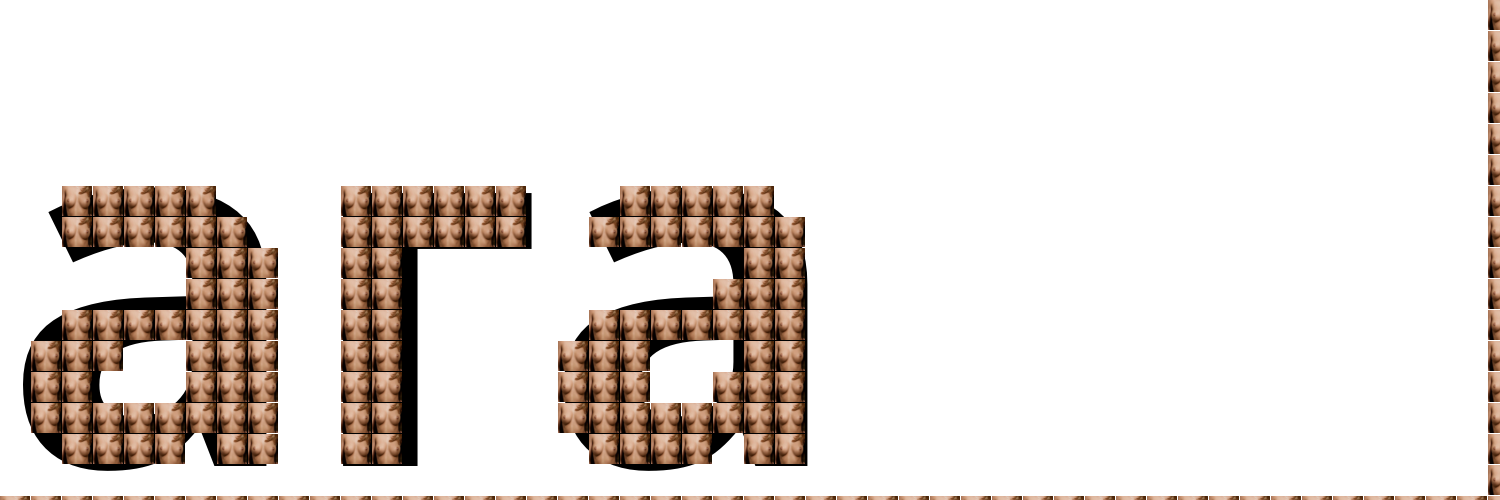
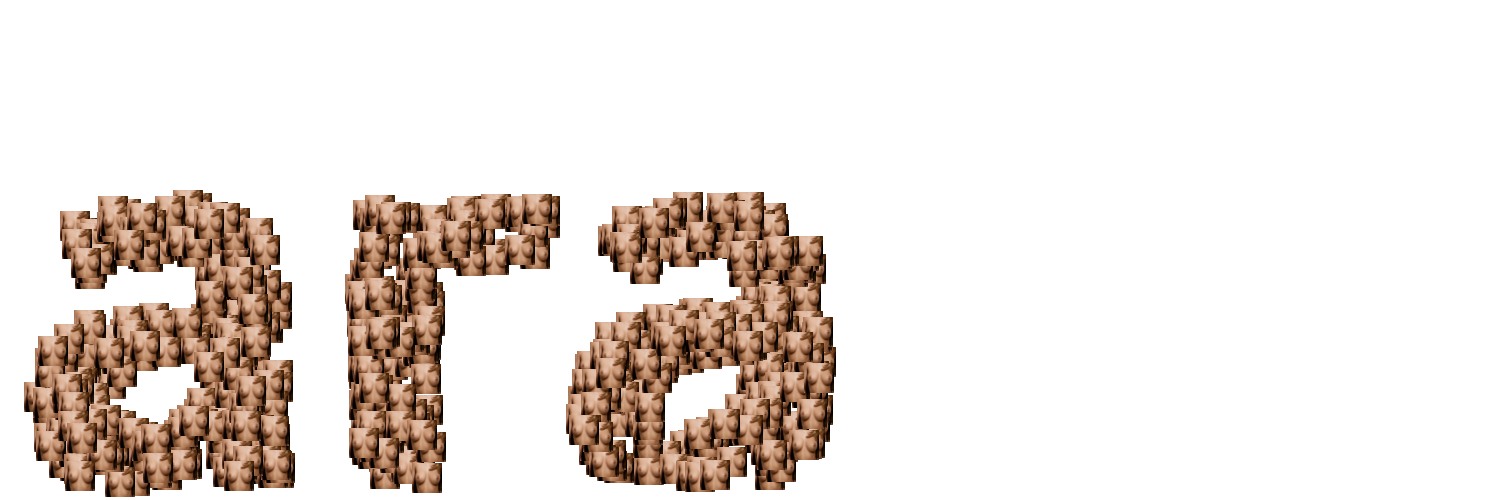
dots manager and randomization

Changed region(s): [[0.0, 0.0, 1.0, 1.0]]

diff --git a/main.go b/main.go
@@ -7,6 +7,79 @@ import (
 	"log"
 	"image/draw"
 	"github.com/fogleman/gg"
+	"math/rand"
+)
+
+const (
+	HEIGHT      = 500
+	WIDTH       = HEIGHT * 3
+	RECT_WIDTH  = 30
+	RECT_HEIGHT = 30
+)
+
+type dotsManager struct {
+	dots map[int]map[int]bool
+	count int
+}
+
+type point struct {
+	x, y int
+}
+
+func (self *dotsManager) addDot(x int, y int) {
+	if _, ok := self.dots[x]; !ok {
+		self.dots[x] = make(map[int]bool)
+	}
+	if _, v := self.dots[x][y]; !v {
+		self.dots[x][y] = true
+		self.count++
+	}
+}
+
+func (self *dotsManager) removeDot(x int, y int) {
+	if _, ok := self.dots[x]; ok {
+		if self.dots[x][y] {
+			self.dots[x][y] = false
+			self.count--
+		}
+	}
+}
+
+func (self *dotsManager) checkDot(x int, y int) bool {
+	if _, ok := self.dots[x]; !ok {
+		return self.dots[x][y]
+	}
+	return false
+}
+
+func (self *dotsManager) getList() []point {
+	points := make([]point, self.count)
+	i := 0
+	for x, column := range self.dots {
+		for y, v := range column {
+			if v {
+				points[i] = point{x: x, y: y}
+				i++
+			}
+		}
+	}
+	return points
+}
+
+func (self *dotsManager) getRandomDot() point {
+	list := self.getList()
+	return list[rand.Intn(self.count)]
+}
+
+func createDots() *dotsManager {
+	var d = dotsManager{}
+	d.dots = make(map[int]map[int]bool)
+	d.count = 0
+	return &d
+}
+
+var (
+	d = createDots()
 )
 
 func drawImage(ctx *gg.Context, filename string, x int, y int, w int, h int) error {
@@ -46,16 +119,13 @@ func main() {
 	}
 
 
-	height := 500
-	width := height * 3
-
-	size := float64(height)
+	size := float64(HEIGHT)
 
 
 	// Initialize the context.
 	fg, bg := image.Black, image.White
 
-	img := image.NewRGBA(image.Rect(0, 0, width, height))
+	img := image.NewRGBA(image.Rect(0, 0, WIDTH, HEIGHT))
 	draw.Draw(img, img.Bounds(), bg, image.ZP, draw.Src)
 
 	c := freetype.NewContext()
@@ -78,36 +148,36 @@ func main() {
 		log.Printf("text %s was drawn\n", s)
 	}
 
-	ctx := gg.NewContextForImage(img)
-	//if err = drawImage(ctx, "./boobs.png", 5, 5); err != nil {
-	//	log.Panicln(err)
-	//	return
-	//}
-
-	rectW := 30
-	rectH := 30
+	cleanImg := image.NewRGBA(image.Rect(0, 0, WIDTH, HEIGHT))
+	cleanCtx := gg.NewContextForImage(cleanImg)
 
 	var blackCount int
-	for i := 0; i < width; i += rectW + 1 {
-		for j := 0; j < height; j += rectH + 1 {
+	for i := 0; i < WIDTH; i += RECT_WIDTH + 1 {
+		for j := 0; j < HEIGHT; j += RECT_HEIGHT + 1 {
 			blackCount = 0
-			for ri := i; ri < i + rectW; ri++ {
-				for rj := j; rj < j + rectH; rj++ {
+			for ri := i; ri < i + RECT_WIDTH; ri++ {
+				for rj := j; rj < j + RECT_HEIGHT; rj++ {
 					rgba := img.RGBAAt(ri, rj)
 					if rgba.R == 0 && rgba.G == 0 && rgba.B == 0 {
 						blackCount++
+						d.addDot(ri, rj)
 					}
 				}
 			}
-			if float64(blackCount) > float64(rectW * rectH) * 0.5 {
+			if float64(blackCount) > float64(RECT_WIDTH * RECT_HEIGHT) * 0.5 {
 				//ctx.SetRGB(0, 128, 0)
 				//ctx.DrawRectangle(float64(i), float64(j), float64(rectW), float64(rectH))
 				//ctx.Fill()
-				drawImage(ctx, "boobs.png", i, j, rectW, rectH)
+				//drawImage(ctx, "boobs.png", i, j, RECT_WIDTH, RECT_HEIGHT)
 			}
 		}
 	}
 
+	for i := 0; i < 1000; i++ {
+		p := d.getRandomDot()
+		drawImage(cleanCtx, "boobs.png", p.x, p.y, RECT_WIDTH, RECT_HEIGHT)
+	}
 
-	ctx.SavePNG("test.png")
+
+	cleanCtx.SavePNG("test.png")
 }
